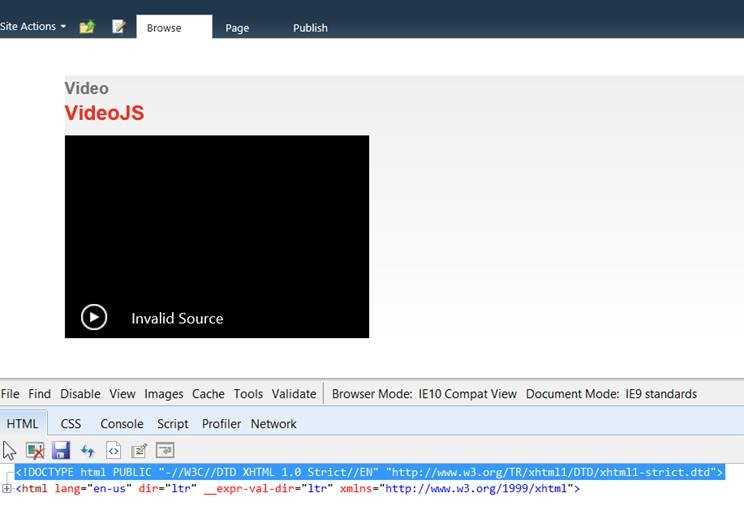
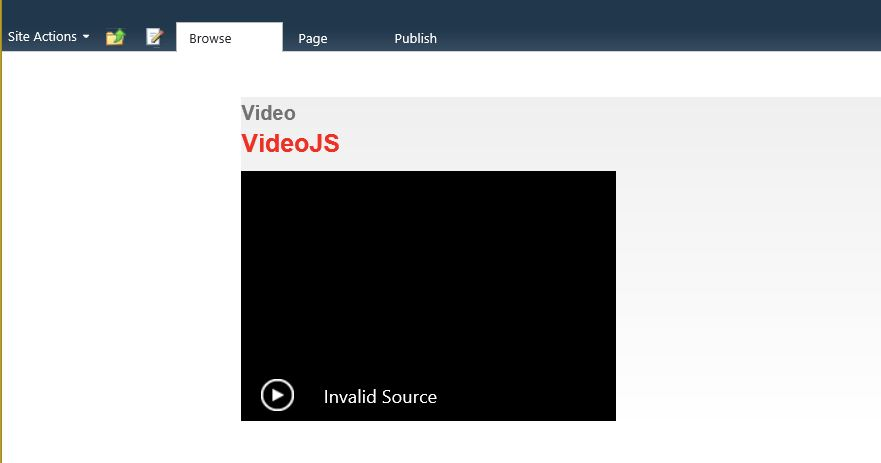
vids

diff --git a/_posts/2013-10-25-Resolve-HTML5-Video-SharePoint-2010.md b/_posts/2013-10-25-Resolve-HTML5-Video-SharePoint-2010.md
@@ -15,12 +15,12 @@ As expected, Internet Explorer presents problems rendering the HTML5 `<Video>` t
 Your browser does not support the video tag.
 </video>
 
-I threw this sample ([thank you w3schools](http://www.w3schools.com/html/html5_video.asp)) into a Content Editor Web Part and had the video rendering perfectly Chrome and Firefox right away. But I took a look in IE, and:
+I threw this sample into a Content Editor Web Part and had the video rendering perfectly Chrome and Firefox right away. But I took a look in IE, and:
 
-![SharePoint Invalid Video](/assets/SharePointVideo/invalid-video-1.jpg "SharePoint Invalid Video")
+![SharePoint Invalid Video](/assets/SharePointVideo/invalid-video-1.PNG "SharePoint Invalid Video")
 
 
-Invalid Source. After digging around, it seems that the HTML5 tags need the HTML5 DOCTYPE to render.
+Invalid Source. After digging around, it seems that HTML5 tags, like Video, need the HTML5 DOCTYPE to render.
 
 
 ###Update the Master Page to Include the HTML5 DOCTYPE
